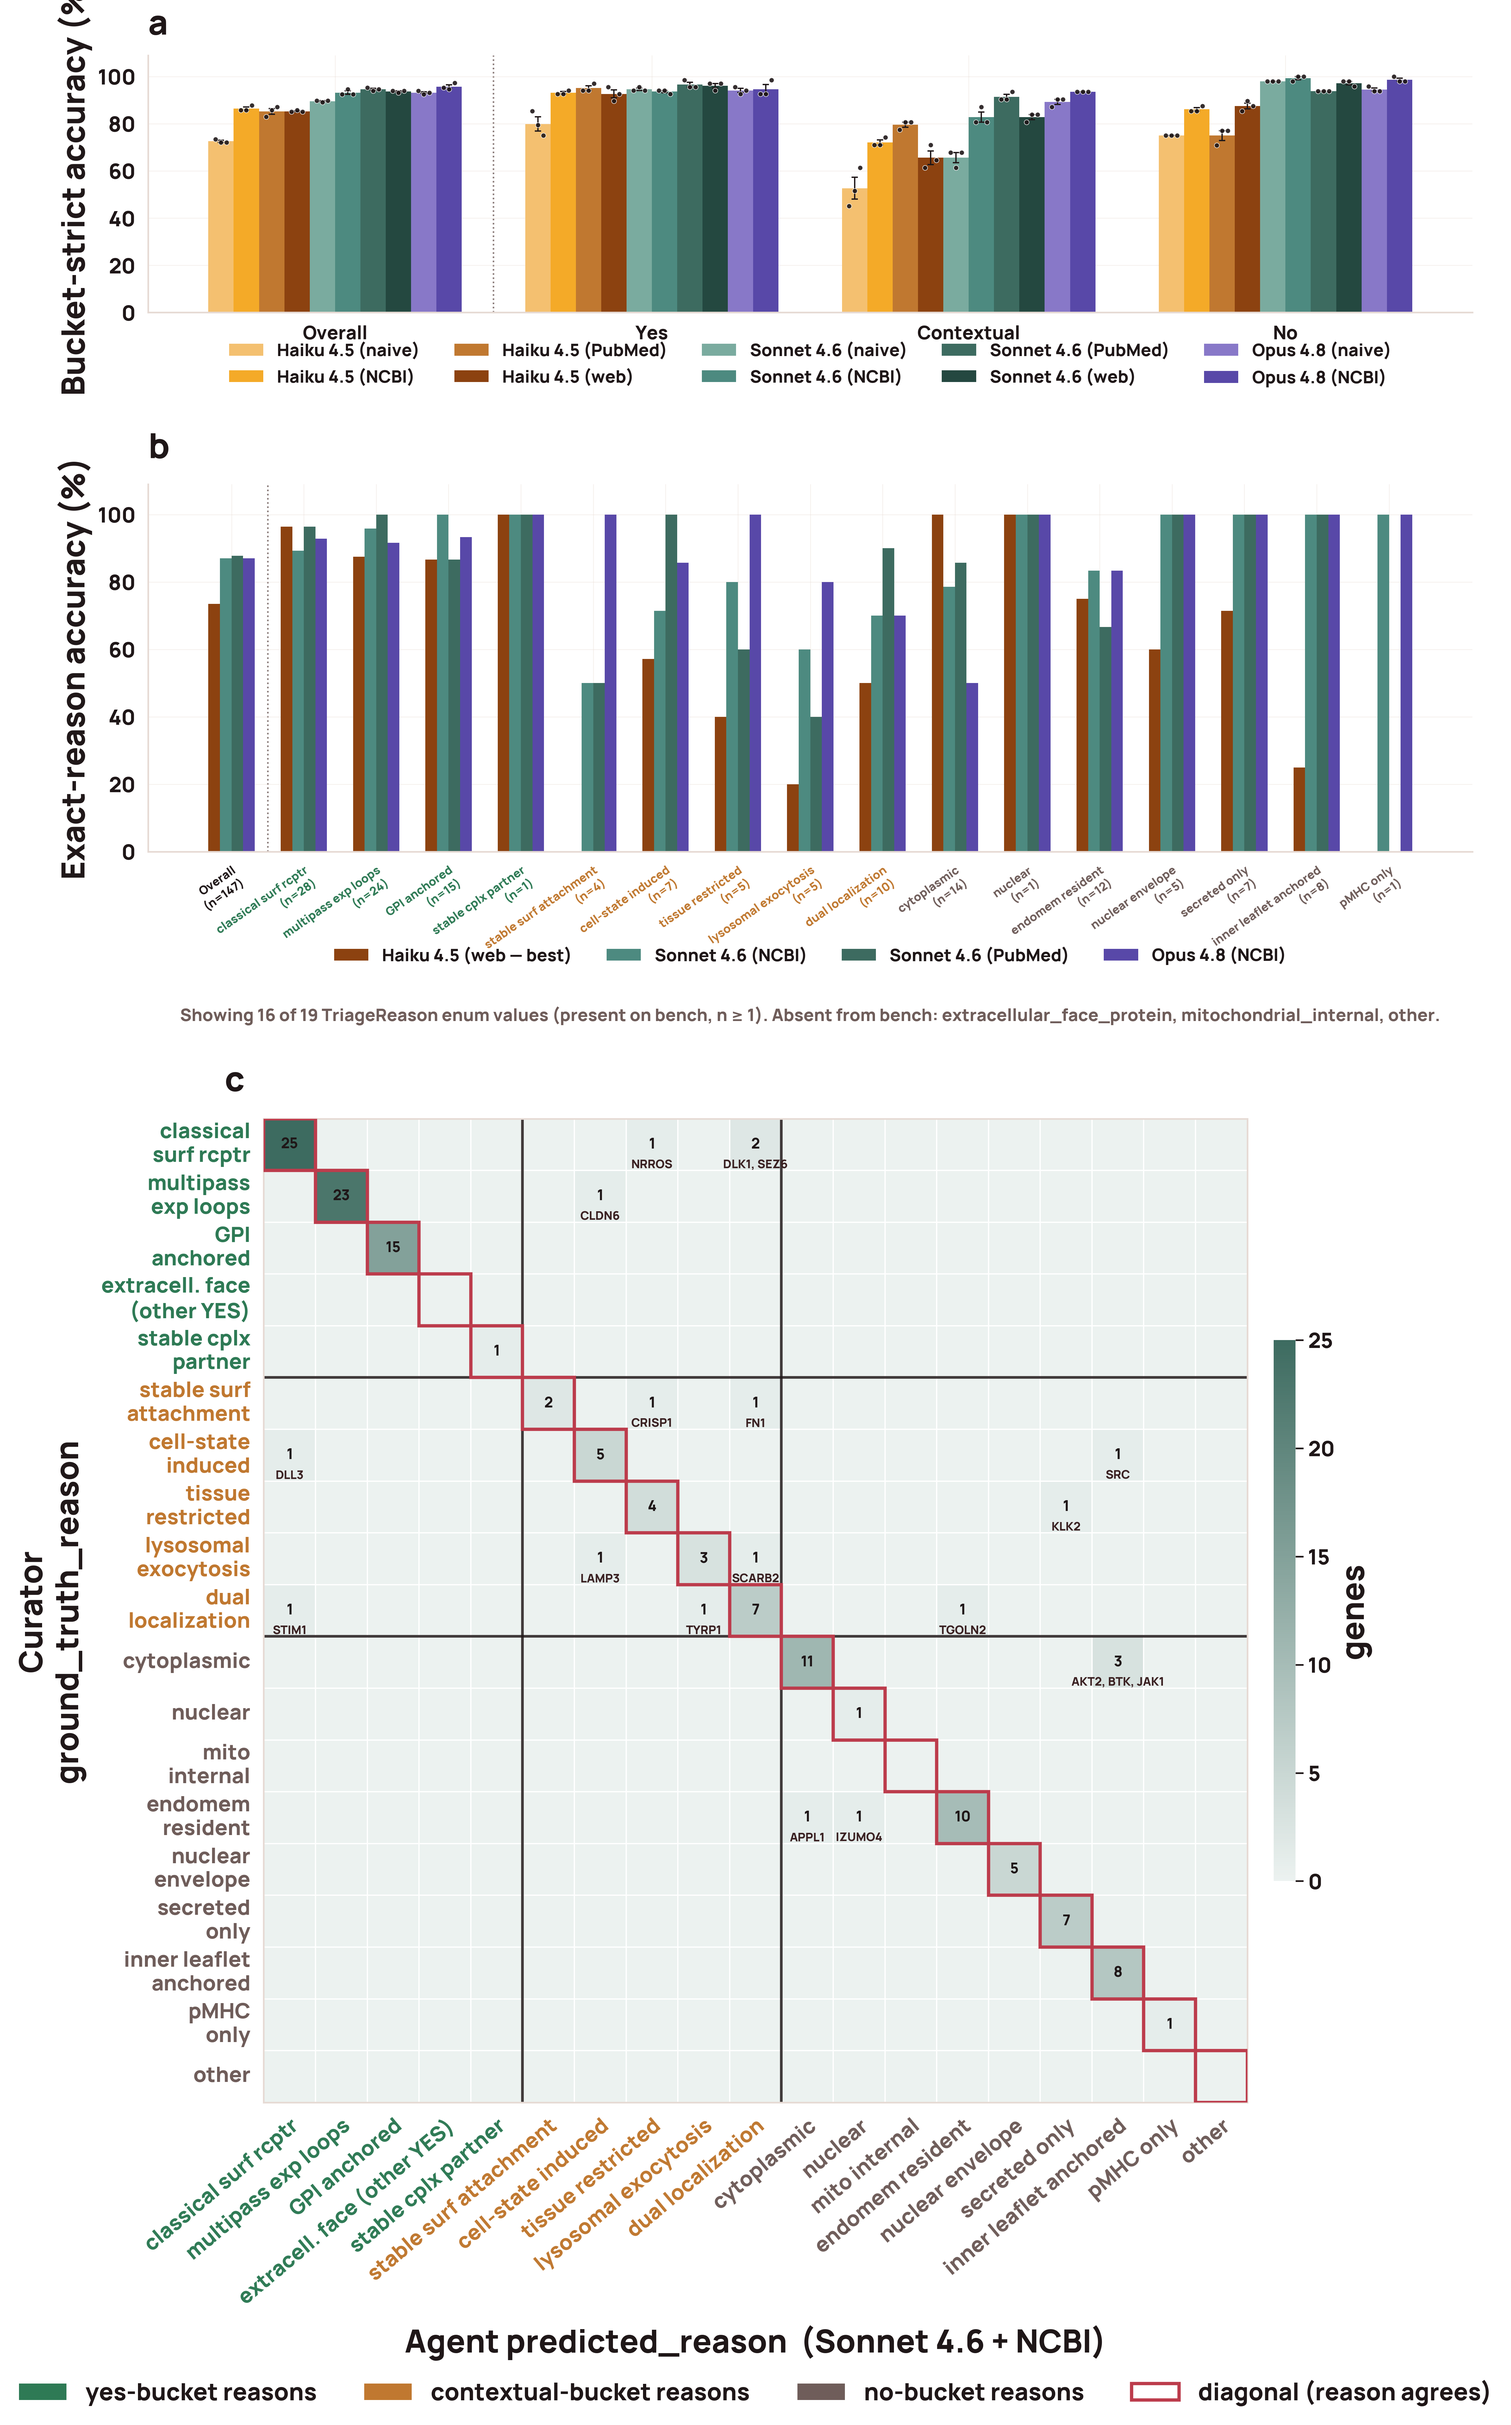
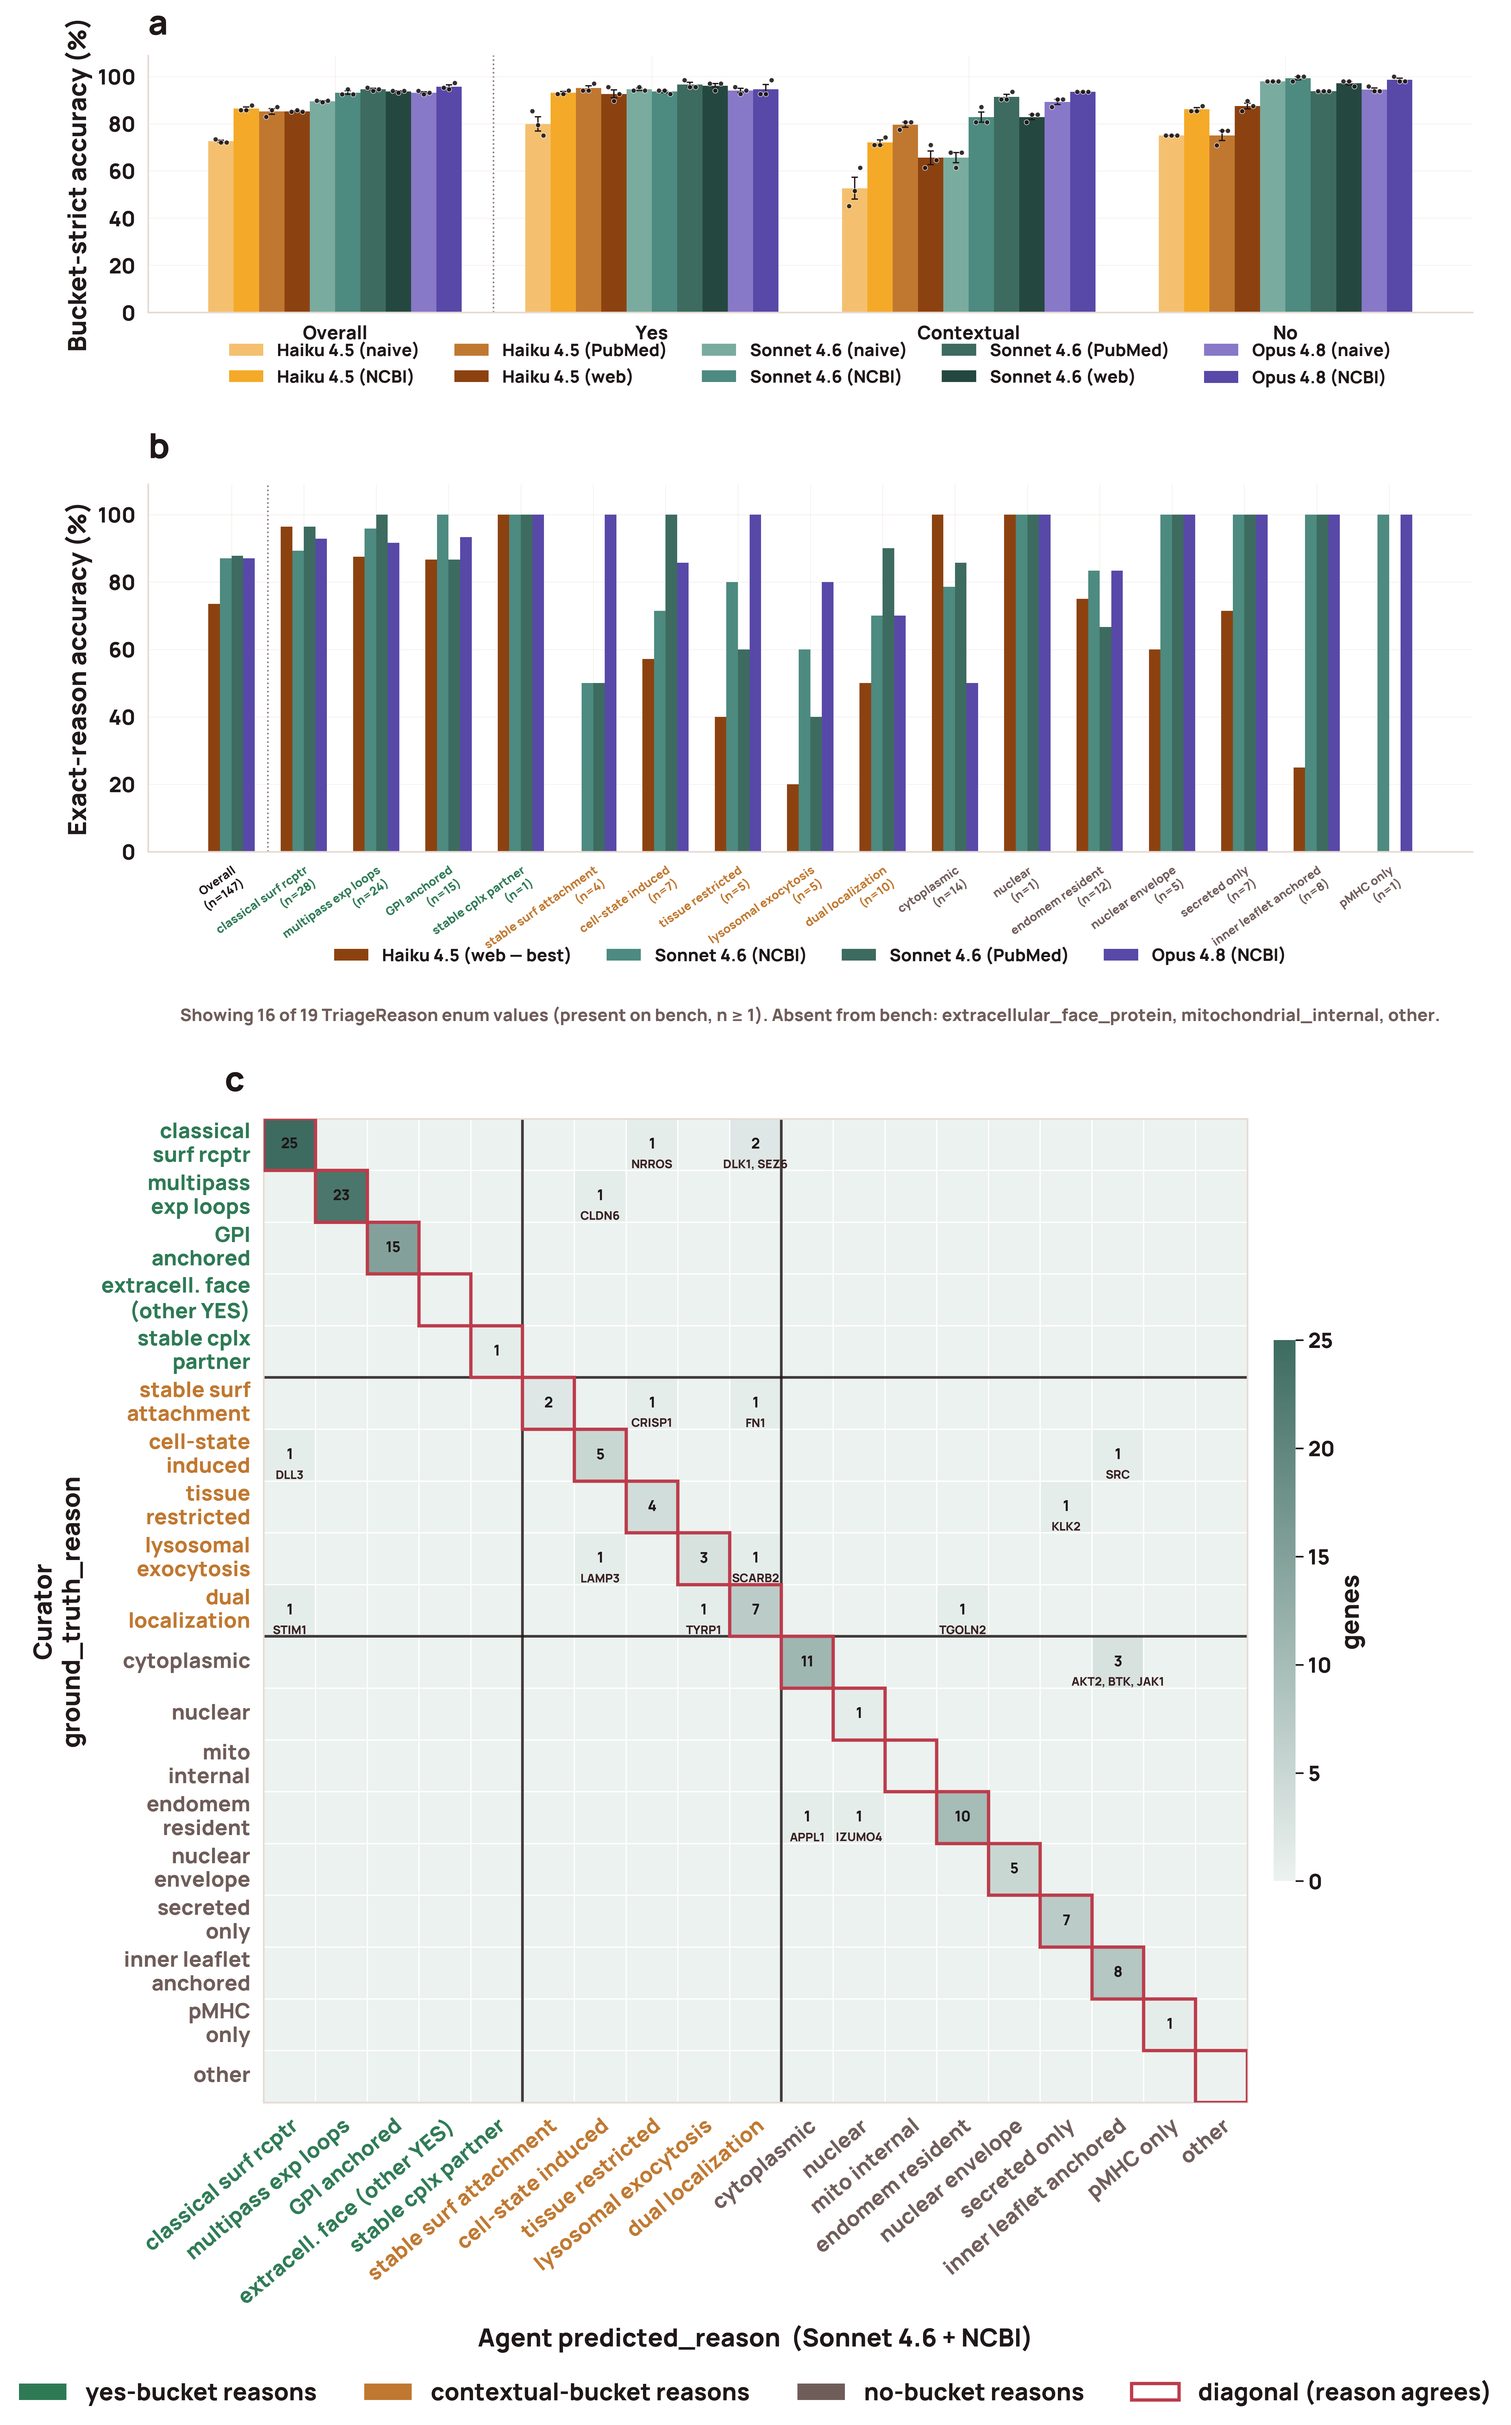
fix(docs): Supp Fig 4 y-axis title was clipped — reduce axis-title size 24->19
The 24pt rotated y-axis title ("Bucket-strict accuracy (%)") overflowed
the short panel-a axis and was clipped at the figure top (the "(%)" was
cut). Reduced axes.labelsize 24->19 in both the canonical script and the
gist mirror so the title fits; regenerated PNG/PDF. Re-republished the
gist and refreshed its SWHID (-> swh:1:rev:92c0449d).

diff --git a/data/analysis/figures/make_curator_vs_agent_reason.py b/data/analysis/figures/make_curator_vs_agent_reason.py
@@ -119,7 +119,7 @@ def _apply_brand_style() -> None:
         # Match the canonical generator's rcParams so the layout
         # fingerprint (font.size / axes.labelsize / tick sizes / legend)
         # stays in sync with scripts/curator_vs_agent_reason.py.
-        "font.size": 20, "axes.labelsize": 24, "axes.titlesize": 0,
+        "font.size": 20, "axes.labelsize": 19, "axes.titlesize": 0,
         "axes.spines.top": False, "axes.spines.right": False,
         "axes.edgecolor": BRAND_GRID, "axes.labelcolor": BRAND_INK,
         "axes.facecolor": "none",

diff --git a/scripts/curator_vs_agent_reason.py b/scripts/curator_vs_agent_reason.py
@@ -326,7 +326,7 @@ def make_plot() -> tuple[plt.Figure, list[plt.Axes]]:
     """
     setup_plotting_style(style="whitegrid", context="notebook", font_scale=1.0)
     plt.rcParams.update({
-        "font.size": 20, "axes.labelsize": 24, "axes.titlesize": 0,
+        "font.size": 20, "axes.labelsize": 19, "axes.titlesize": 0,
         "xtick.labelsize": 16, "ytick.labelsize": 16, "legend.fontsize": 16,
     })
     data = _load_data()

diff --git a/paper/figure_index.md b/paper/figure_index.md
@@ -14,7 +14,7 @@ Generated by `scripts/build_figure_index.py`. One row per figure in document ord
 | **Supp S1** | `db_correctness_overall` | [gist](https://gist.github.com/beccajcarlson/9c765ed9673d7bd845c3ac091ad2204d) · `swh:1:rev:b9ec42213f03d398ddd77ae78a557b634ac06ae3` | `db_correctness_overall.tsv` (4,851 rows · 910.9 KB) |
 | **Supp S2** | `benchmark_cost_vs_accuracy` | [gist](https://gist.github.com/beccajcarlson/d7f764d2de288ae31cf44173bc396d41) · `swh:1:rev:b9a4fd09631c6c3e6742d003d069569bdc694148` | `benchmark_cost_vs_accuracy.tsv` (4,851 rows · 910.9 KB) |
 | **Supp S3** | `db_cutoff_tradeoff` | [gist](https://gist.github.com/beccajcarlson/f9319af882e372194bd30640c0cbf2ed) · `swh:1:rev:0441abc156c911e3b0b8862b20e009edf8edc178` | `db_cutoff_tradeoff_points.tsv` (22 rows · 1.6 KB) |
-| **Supp S4** | `curator_vs_agent_reason` | [gist](https://gist.github.com/beccajcarlson/c98fe6646ba8b967767d072657da31b7) · `swh:1:rev:28fef1739afe5f515e5b5f93826bb4e055dccee2` | `curator_vs_agent_reason.tsv` (4,851 rows · 494.8 KB) |
+| **Supp S4** | `curator_vs_agent_reason` | [gist](https://gist.github.com/beccajcarlson/c98fe6646ba8b967767d072657da31b7) · `swh:1:rev:92c0449d4eb83f371f4f9f2b0a1308f79ce145aa` | `curator_vs_agent_reason.tsv` (4,851 rows · 494.8 KB) |
 | **Supp S5** | `ensemble_vs_best_db_vs_sonnet` | [gist](https://gist.github.com/beccajcarlson/0104308c239fe49d91d82a1007632b27) · `swh:1:rev:060b7ca0c42e3f5a0d9a884ac82b5d05e18e1568` | `ensemble_vs_best_db_vs_sonnet.tsv` (4,851 rows · 929.9 KB) |
 | **Supp S6** | `db_vs_sonnet_whole_proteome` | [gist](https://gist.github.com/beccajcarlson/1265c867a3bbb08efd81262789e1f013) · `swh:1:rev:d25574fdaf0f6c370b351fdc272fc41b54000169` | `db_vs_sonnet_whole_proteome.tsv` (19,324 rows · 1681.6 KB) |
 | **Supp S7** | `positive_control_db_coverage_bars` | [gist](https://gist.github.com/beccajcarlson/3ab5df749b576912959c75fe7013d78c) · `swh:1:rev:f7b6b3911b420731d9f565039f7f70571b4d09d7` | `positive_control_db_coverage_bars.tsv` (326 rows · 183.2 KB) |
@@ -120,7 +120,7 @@ Generated by `scripts/build_figure_index.py`. One row per figure in document ord
 
 ## Supp S4 — `curator_vs_agent_reason`
 
-- **Gist:** [gist](https://gist.github.com/beccajcarlson/c98fe6646ba8b967767d072657da31b7) · `swh:1:rev:28fef1739afe5f515e5b5f93826bb4e055dccee2`
+- **Gist:** [gist](https://gist.github.com/beccajcarlson/c98fe6646ba8b967767d072657da31b7) · `swh:1:rev:92c0449d4eb83f371f4f9f2b0a1308f79ce145aa`
 - **Bundled TSV:** `curator_vs_agent_reason.tsv` (4,851 rows · 494.8 KB)
 
 **Supplementary Figure 4. The triage agent's localization reasoning matches the manual curator on 87.1% of genes, with nearly all residual disagreement being reassignment within the same surface-verdict bucket rather than a flipped verdict.** Each SurfaceBench gene carries a curator-assigned and an agent-assigned reason, both from one shared closed set of reason categories grouped into surface-accessible (Yes), context-dependent (Contextual), and not-accessible (No) buckets. (a) Bucket-strict accuracy across all model-and-configuration cells (Haiku 4.5, Sonnet 4.6, Opus 4.8), with per-replicate dots and SEM; this strict axis gives no partial credit for a Yes-versus-Contextual mismatch. (b) Per-reason exact agreement for four frontier configurations (best Haiku, Sonnet with identifiers, Sonnet with PubMed, best Opus), ordered Yes to Contextual to No. (c) The Sonnet 4.6 plus NCBI confusion matrix, blocked by bucket; the largest off-diagonal is a within-No-bucket swap that leaves the surface verdict unchanged.
